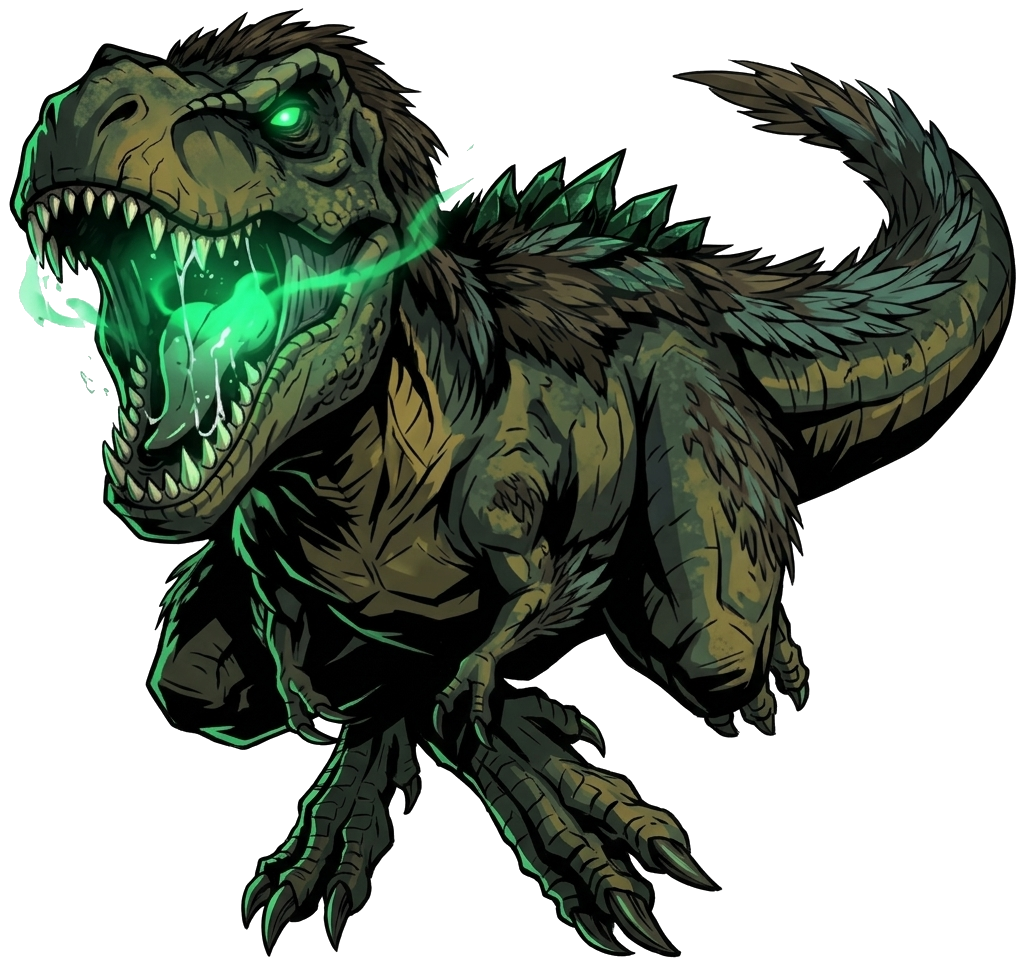
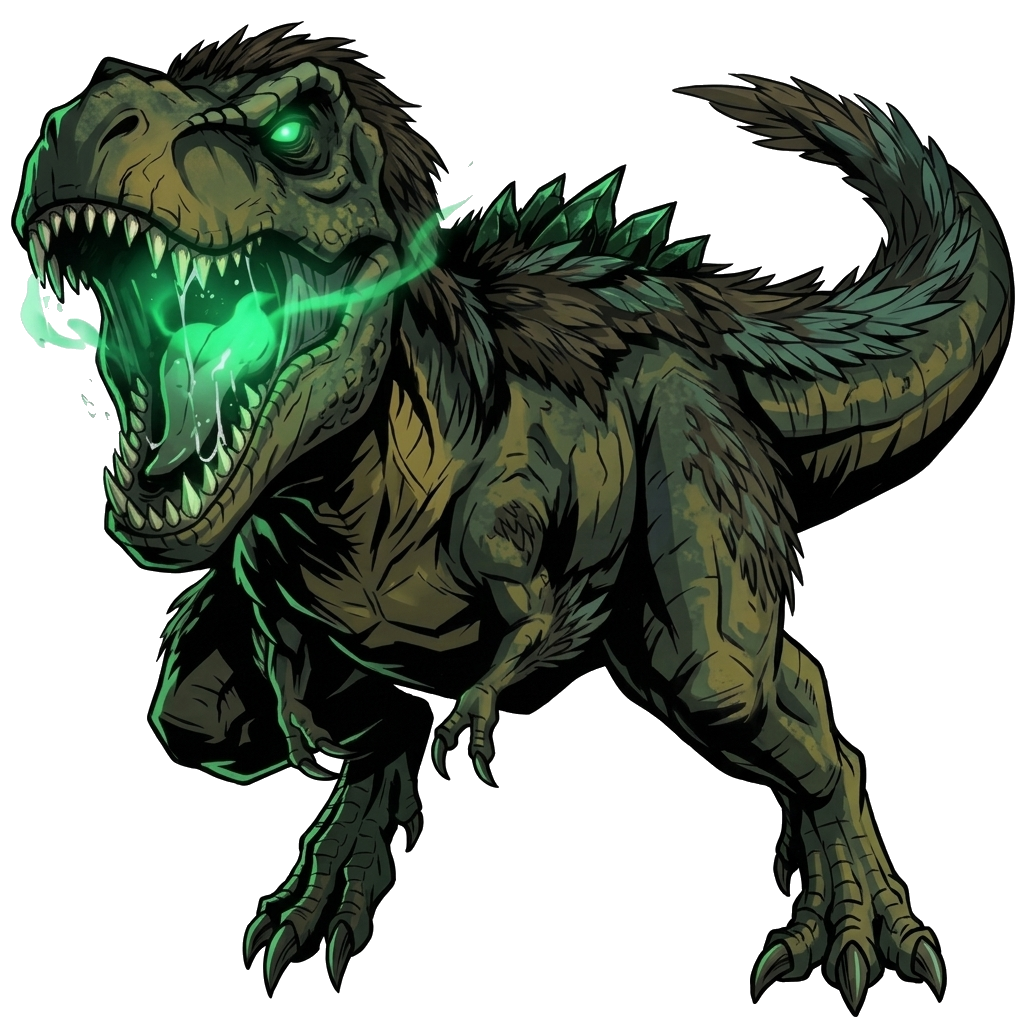
fix(art): remove extra third leg on Rex Primordial da Cratera Perdida

Changed region(s): [[0.0, 0.0, 1.0, 0.9897], [0.625, 0.5876, 0.6562, 0.6186], [0.5, 0.433, 0.5312, 0.4639]]

diff --git a/src/components/CardView.tsx b/src/components/CardView.tsx
@@ -363,7 +363,7 @@ export const CardView: React.FC<CardViewProps> = ({
           <div className={`mtg-token-art aura-${displayCard.domain}`}>
             {!imgError && displayCard.imagePath ? (
               <img
-                src={`${displayCard.imagePath}?v=48`}
+                src={`${displayCard.imagePath}?v=49`}
                 alt={displayName}
                 className="mtg-token-img"
                 onError={() => setImgError(true)}
@@ -520,7 +520,7 @@ export const CardView: React.FC<CardViewProps> = ({
 
           {!imgError && displayCard.imagePath ? (
             <img
-              src={`${displayCard.imagePath}?v=48`}
+              src={`${displayCard.imagePath}?v=49`}
               alt={displayName}
               className="card-cutout-img"
               onError={() => setImgError(true)}

diff --git a/src/components/MythologyAtlasView.tsx b/src/components/MythologyAtlasView.tsx
@@ -342,7 +342,7 @@ export const MythologyAtlasView: React.FC<MythologyAtlasViewProps> = ({ onInspec
                         title={`Clique para inspecionar ${card.name}`}
                       >
                         <img
-                          src={`${card.imagePath}?v=21`}
+                          src={`${card.imagePath}?v=22`}
                           alt={card.name}
                           className="poem-card-medallion-img"
                           loading="lazy"
